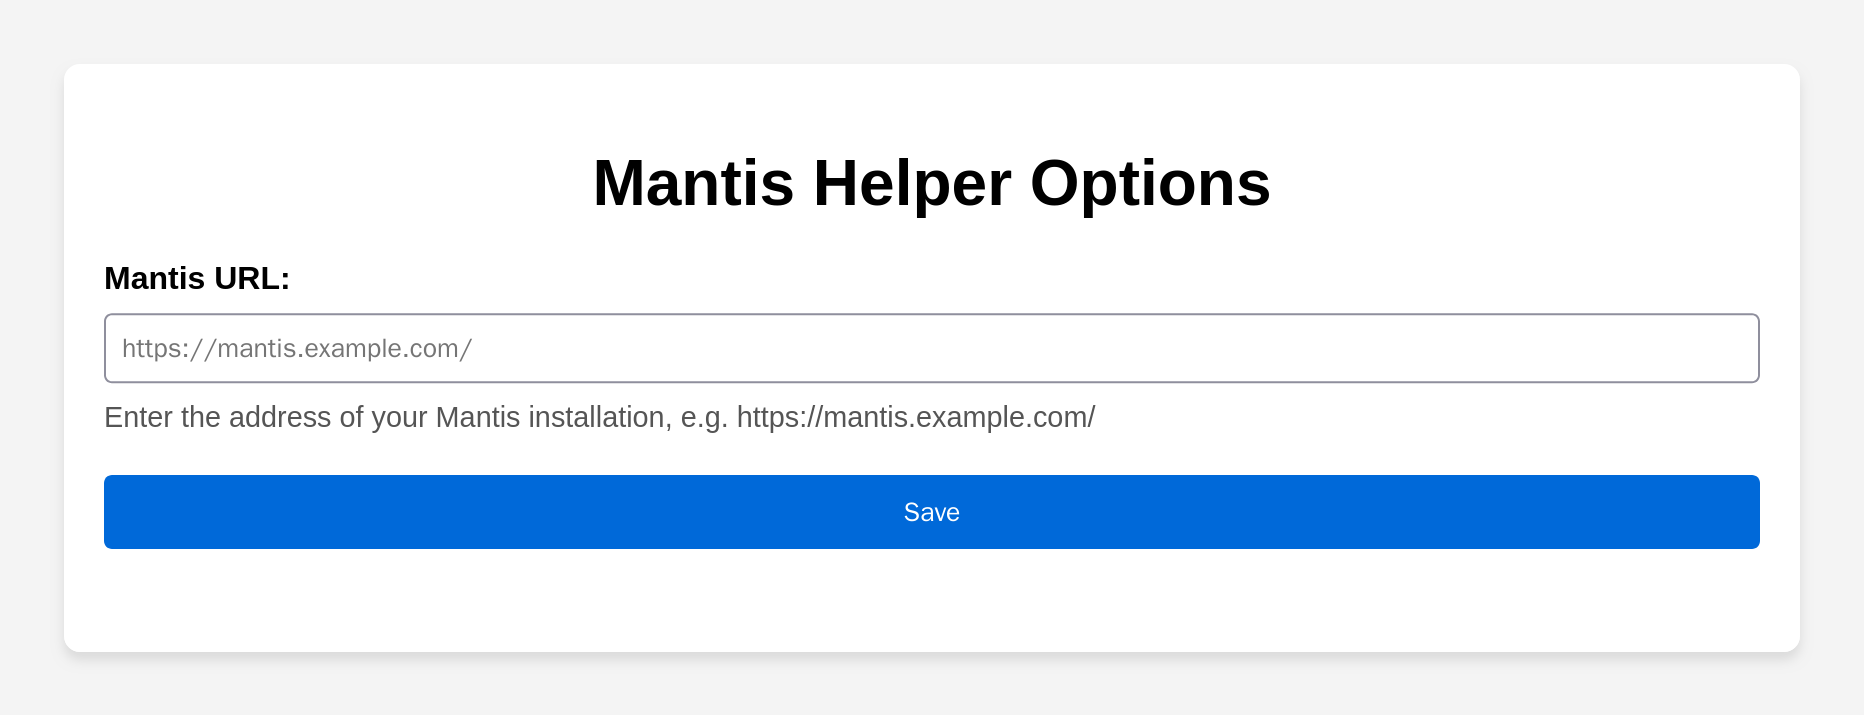
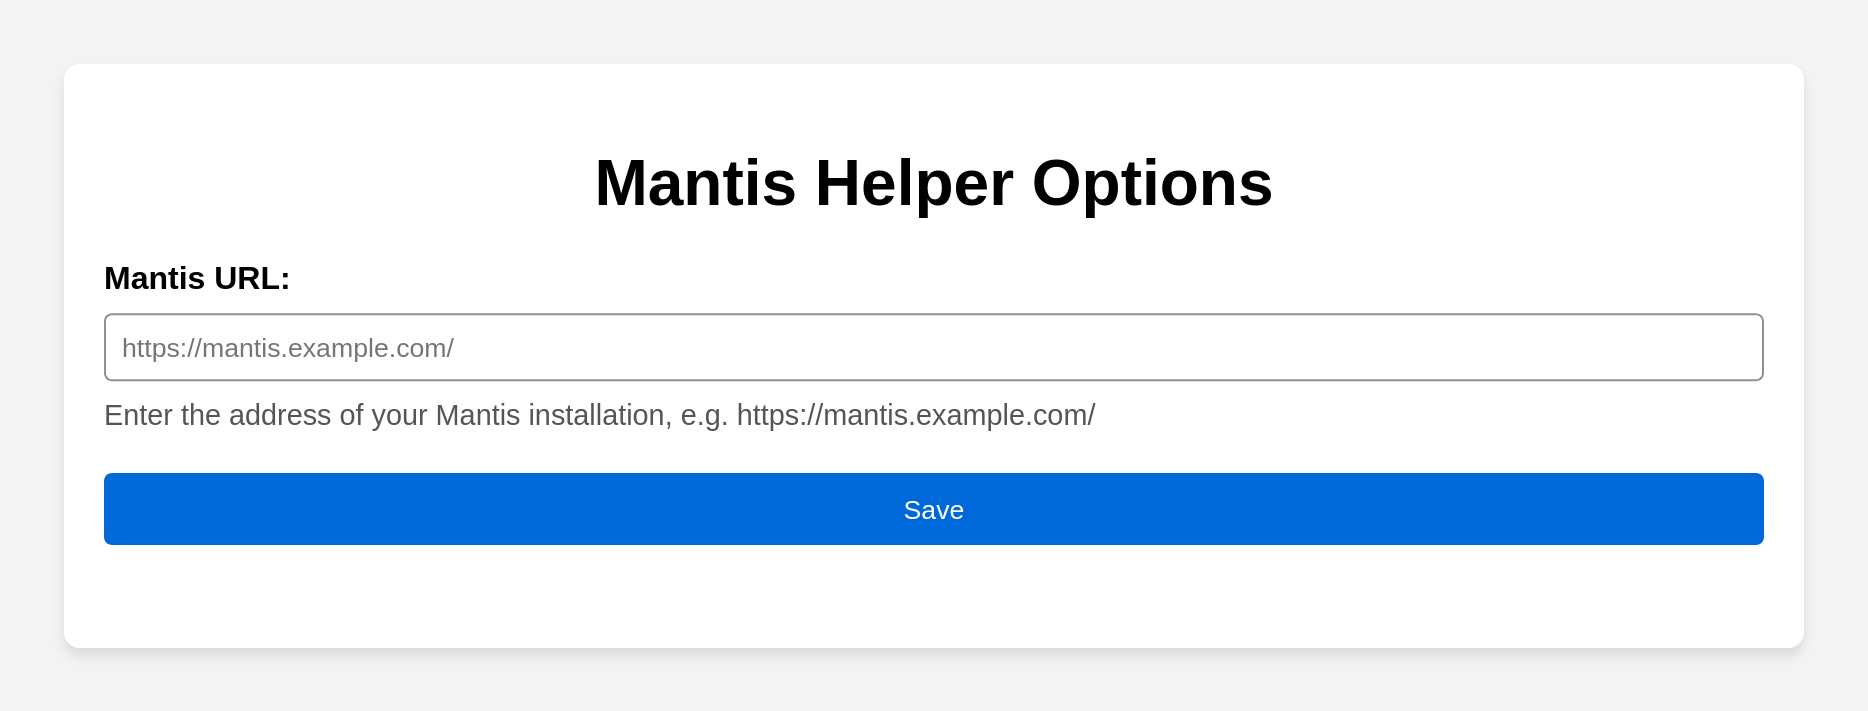
docs: options screenshots with the form controls in Liberation Sans
Form controls use the system font, not the page's Arial, and fontconfig
resolves it per host: WenQuanYi Zen Hei here, DejaVu Sans on the CI runner.
The earlier serif pin (a Firefox pref) only covered the hint page; a pref
cannot reach the system font. The tour now points Firefox at its own
fonts.conf, which pins sans-serif to Liberation Sans and serif to Liberation
Serif, so all four shots are the same on every host. The hint page renders
byte-identical to before; the three options shots are regenerated.

diff --git a/e2e/playwright.docs.config.ts b/e2e/playwright.docs.config.ts
@@ -1,3 +1,5 @@
+import { fileURLToPath } from 'node:url'
+
 import { defineConfig, devices } from '@playwright/test'
 
 /* The docs tour (./docs): screenshots of the extension's own pages, and a
@@ -24,10 +26,15 @@ export default defineConfig({
     deviceScaleFactor: 2,
     locale: 'en-GB',
     launchOptions: {
-      env: { ...process.env, LANG: 'en_GB.UTF-8', LANGUAGE: 'en_GB:en', LC_ALL: 'en_GB.UTF-8' },
-      // The hint page has no styles, so it shows Firefox's default font (serif):
-      // the Times New Roman clone, not whatever the host's fontconfig maps serif to.
-      firefoxUserPrefs: { 'font.name.serif.x-western': 'Liberation Serif' },
+      env: {
+        ...process.env,
+        LANG: 'en_GB.UTF-8',
+        LANGUAGE: 'en_GB:en',
+        LC_ALL: 'en_GB.UTF-8',
+        // Form controls (the system font) and the unstyled hint page (serif)
+        // in Liberation, not whatever the host's fontconfig maps them to.
+        FONTCONFIG_FILE: fileURLToPath(new URL('./docs/fonts.conf', import.meta.url)),
+      },
     },
     timezoneId: 'Europe/Vienna',
     contextOptions: { reducedMotion: 'reduce' },
